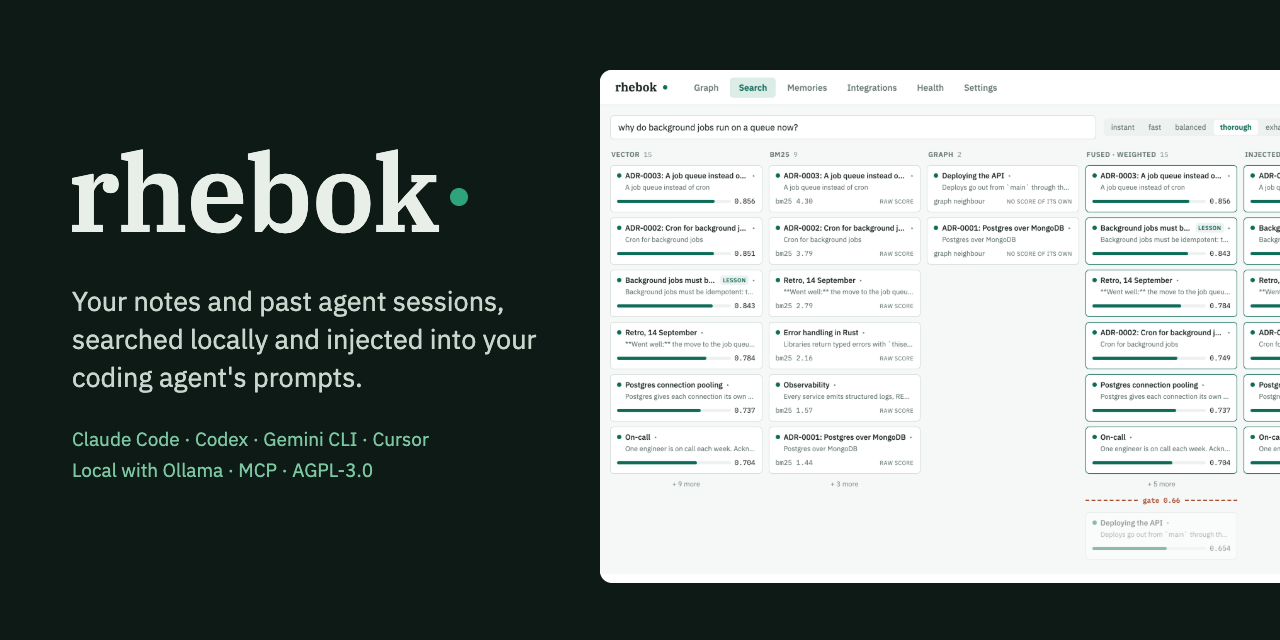
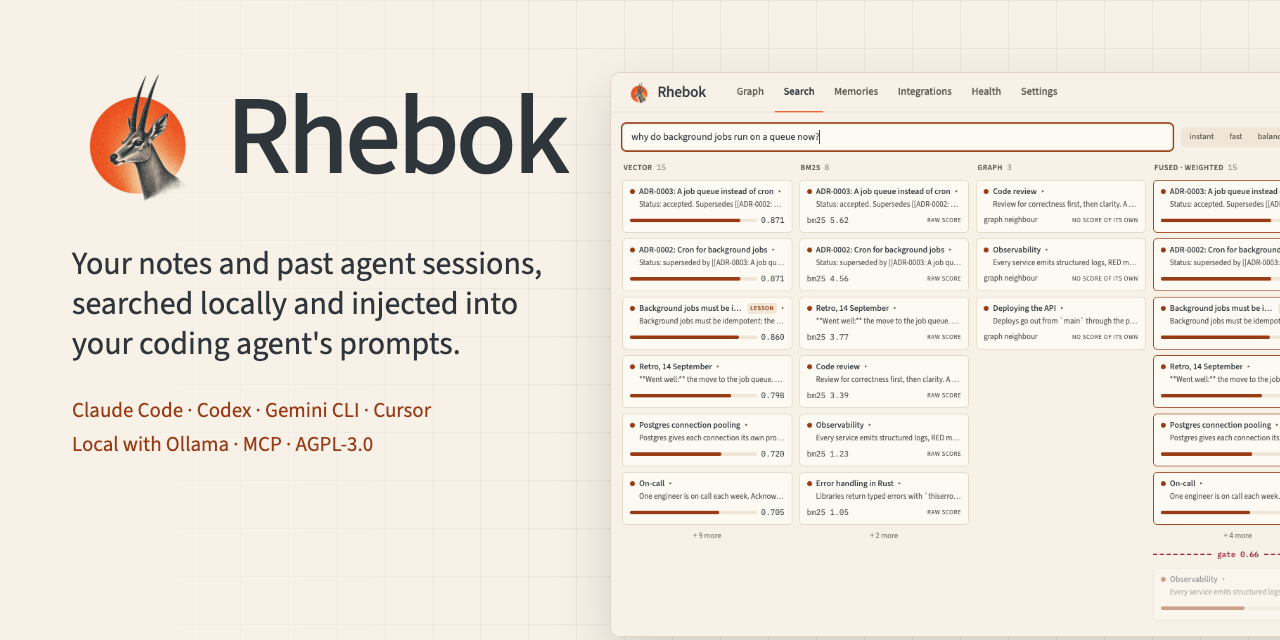
The README and usage screenshots show the Rhebok theme
`demo.gif`, `graph.png`, `search.png` and `social-preview.png` still
showed the old green dashboard. All four are retaken from the restyled
one, at their old sizes.

The 13-note demo corpus behind the old images was not kept, so a new
one was written with the same note titles (the ADRs on Postgres, cron
and the job queue, the 14 September retro, the runbooks and team
guides, Sourdough and Reading list) and two memories. It was indexed in
a throwaway home with qwen3-embedding:0.6b, and searched at the
thorough tier with the same question as before: "why do background
jobs run on a queue now?".

`demo.gif` now types the question before the results arrive, instead
of looping a single still.

`docs/usage.md` described the Memories, Settings, Integrations and Health
tabs in words only. Each now has a screenshot beside its paragraph, taken
from the same throwaway home with rhebok installed into it and Cursor
connected. That home's real path was replaced with `/Users/you` in the
page before each capture, so no local path reaches the repo.

diff --git a/docs/usage.md b/docs/usage.md
@@ -114,6 +114,8 @@ writes a line to `db.log` saying distillation stopped and why. Set
 
 ### Exploring memories
 
+![The Memories tab: every memory with its kind, date and scope, and one lesson open for editing](images/memories.png)
+
 `rhebok dashboard` has a Memories tab that lists every memory with its kind,
 date and scope, filters them, and creates, edits and deletes them. On the
 graph, memories are drawn in their own colours, one per kind, joined to the
@@ -141,6 +143,8 @@ or `[::1]` on its own port, so an SSH tunnel must use the dashboard's port at
 its local end and a reverse proxy must rewrite `Host`; see
 [Security model](security-model.md#the-dashboard).
 
+![The Settings tab on Retrieval: the quality tier, relevance threshold and token budget for the prompt hook and for MCP, each with its default](images/settings.png)
+
 The Settings tab edits `config.toml` without a terminal: sources (with a
 Re-index now button and live progress), retrieval tier, threshold and token
 budget for the hook and for MCP, the embedding backend (local Ollama or a
@@ -151,6 +155,8 @@ you type, a save shows the diff first, and a file edited by hand while the
 page was open is never overwritten. Comments in the file survive a save, and
 the hook picks the change up on its next prompt. Changing the embedding model
 or dimensions offers a full re-index.
+
+![The Integrations tab: a card for each coding agent, with what the connection gives it and the config file it lives in](images/integrations.png)
 
 The Integrations tab has a card for each coding agent rhebok found on this
 machine: its version, whether rhebok is connected (or needs repair, and why),
@@ -163,6 +169,8 @@ Desktop. A config file rhebok cannot parse is refused and left as it was. The
 Codex card has an opt-in checkbox for the `AGENTS.md` guidance block. Agents
 that are not installed are listed under "Not installed", and a last card has
 the JSON and TOML snippets for any other MCP client.
+
+![The Health tab: the installed version, the install checks, the embedding endpoint test, and the index counts](images/health.png)
 
 Health has an Install card with the same checks as `rhebok status`: the
 installed binary, the plugin files, the Claude Code marketplace and
